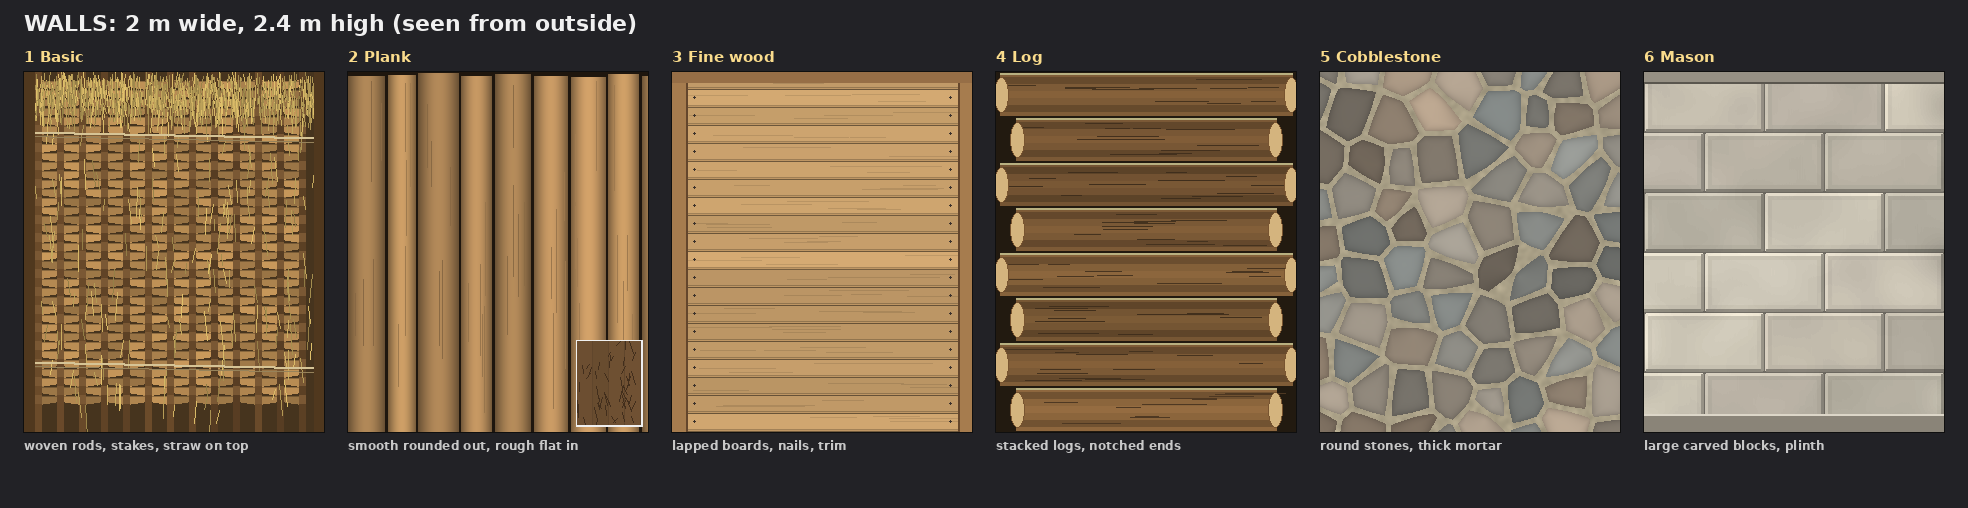
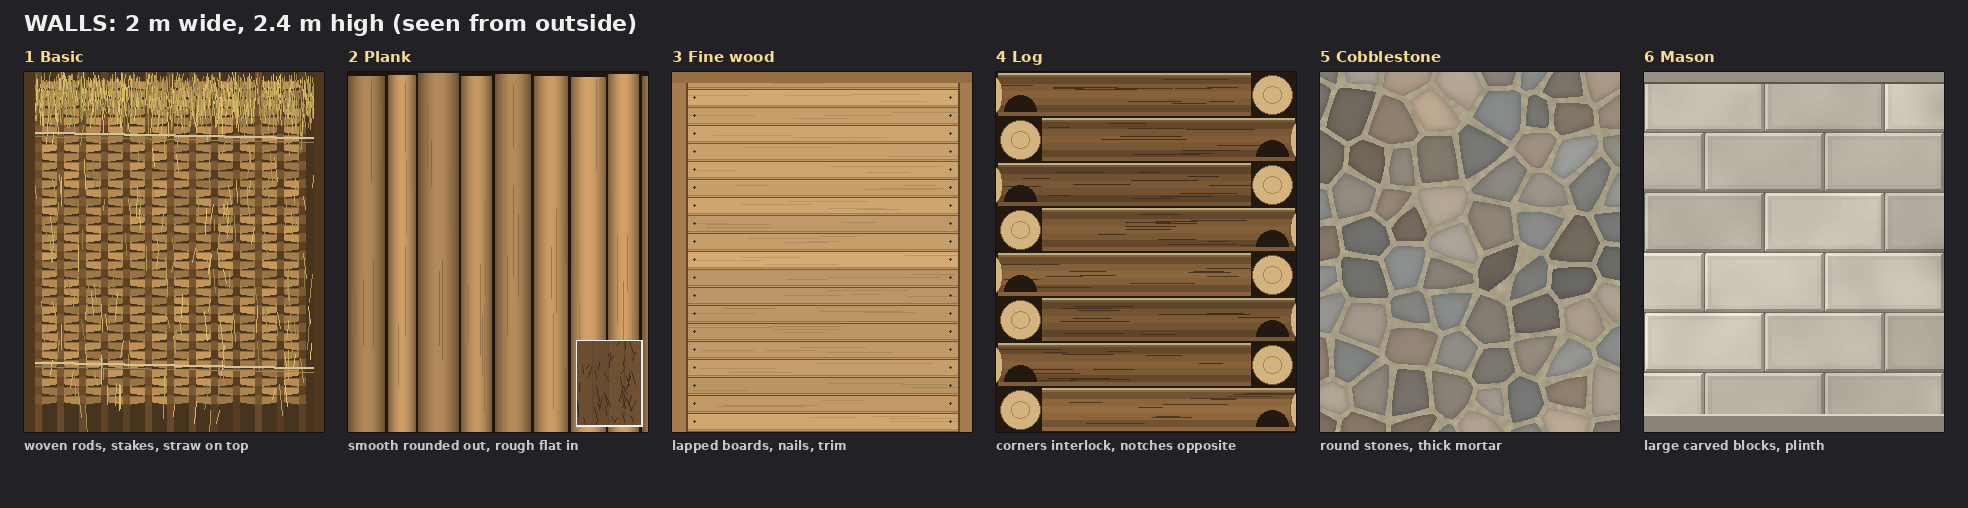
Log wall design: interlocking notched corners, corner plan picture
Claude-Session: https://claude.ai/code/session_01CZx7jASx6pGZ8KWpdsaQti

diff --git a/tools/design_tiers.py b/tools/design_tiers.py
@@ -151,35 +151,74 @@ def wall_fine(rng):
     return img
 
 
+def log_row(d, rng, x0, x1, y, dia, bark):
+    d.rectangle([x0, y + 2, x1, y + dia - 2], fill=bark)
+
+    for k in range(1, 6):                    # cylinder shading
+        f = 0.55 + 0.5 * np.sin(np.pi * k / 6.0)
+        yy = y + 2 + k * (dia - 4) // 6
+        d.line([(x0, yy), (x1, yy)], fill=tint(bark, f), width=(dia - 4) // 6 + 1)
+
+    for _ in range(12):                      # bark ridges
+        rx = int(rng.integers(x0, max(x0 + 1, x1 - 40)))
+        ry = y + int(rng.integers(6, dia - 6))
+        d.line([(rx, ry), (rx + int(rng.integers(20, 70)), ry)], fill=tint(bark, 0.55), width=1)
+
+
 def wall_log(rng):
+    """Saddle-notched corners. Rows alternate: where this wall's log runs through (sticking out, with a saddle notch cut underneath) the other wall's
+    log end shows as a circle on the opposite course. The two ends of the wall are opposite: left runs through on even rows, right on odd rows."""
     w, h = WALL
     img = canvas((w, h), (34, 26, 16))
     d = ImageDraw.Draw(img)
     dia = 45
-    n = h // dia
+    end = (212, 180, 126)
 
-    for i in range(n + 1):
+    for i in range(h // dia + 1):
         y = i * dia
-        x0 = 4 if i % 2 == 0 else 20            # notched corners: every other log sticks out further
-        x1 = w - x0
         bark = tint((132, 96, 58), rng.uniform(0.85, 1.1))
-        d.rectangle([x0, y + 2, x1, y + dia - 2], fill=bark)
+        left_through = i % 2 == 0
+        right_through = not left_through
+        x0 = 2 if left_through else 46
+        x1 = w - 2 if right_through else w - 46
+        log_row(d, rng, x0, x1, y, dia, bark)
+        d.line([(x0, y + 1), (x1, y + 1)], fill=(184, 176, 128), width=2)       # chinking between the logs
 
-        for k in range(1, 6):                # cylinder shading
-            f = 0.55 + 0.5 * np.sin(np.pi * k / 6.0)
-            yy = y + 2 + k * (dia - 4) // 6
-            d.line([(x0, yy), (x1, yy)], fill=tint(bark, f), width=(dia - 4) // 6 + 1)
+        for side, through in ((0, left_through), (1, right_through)):
+            cx = 24 if side == 0 else w - 24
+            ex = 2 if side == 0 else w - 2
 
-        for _ in range(12):                  # bark ridges
-            rx = int(rng.integers(x0, x1 - 40))
-            ry = y + int(rng.integers(6, dia - 6))
-            d.line([(rx, ry), (rx + int(rng.integers(20, 70)), ry)], fill=tint(bark, 0.55), width=1)
-
-        d.line([(x0, y + 1), (x1, y + 1)], fill=(184, 176, 128), width=2)               # chinking: moss and clay between the logs
-        d.ellipse([x0 - 6, y + 5, x0 + 8, y + dia - 5], fill=(212, 180, 126), outline=(120, 84, 48))   # cut ends at the corners
-        d.ellipse([x1 - 8, y + 5, x1 + 6, y + dia - 5], fill=(212, 180, 126), outline=(120, 84, 48))
+            if through:
+                d.ellipse([ex - 10 if side == 0 else ex - 4, y + 5, ex + 4 if side == 0 else ex + 10, y + dia - 5], fill=end, outline=(120, 84, 48))
+                d.pieslice([cx - 16, y + dia - 22, cx + 16, y + dia + 10], 180, 360, fill=(34, 26, 16))      # the saddle notch cut underneath
+            else:
+                d.ellipse([cx - 20, y + 3, cx + 20, y + dia - 3], fill=end, outline=(120, 84, 48))        # the other wall's log end, seen end-on
+                d.ellipse([cx - 9, y + 14, cx + 9, y + dia - 14], outline=(170, 130, 80))                 # growth rings
 
     return img
+
+
+def log_corner(out):
+    """Plan of a log corner, four courses side by side: walls A (horizontal) and B (vertical); the log that runs through the corner alternates."""
+    scale = 90
+    img = canvas((4 * (scale * 2 + 40) + 80, 2 * scale + 140), (34, 34, 38))
+    d = ImageDraw.Draw(img)
+    d.text((24, 10), "LOG CORNER, top view: the log that runs through alternates each course, so ends interlock", fill=(240, 240, 240), font=font(18))
+    t = 30                                   # log diameter in the picture
+
+    for c in range(4):
+        ox = 40 + c * (scale * 2 + 40)
+        oy = 70
+        a_through = c % 2 == 0
+        d.text((ox, oy + scale + t + 40), "course %d: %s runs through" % (c + 1, "A" if a_through else "B"), fill=(250, 220, 140), font=font(13))
+        ax0 = ox - 14 if a_through else ox + t
+        d.rectangle([ax0, oy + scale, ox + scale * 2, oy + scale + t], fill=(132, 96, 58), outline=(60, 40, 22))        # wall A
+        by0 = oy - 14 if not a_through else oy + 0
+        by1 = oy + scale + t if not a_through else oy + scale
+        d.rectangle([ox, by0, ox + t, by1 + (14 if not a_through else 0)], fill=(150, 108, 66), outline=(60, 40, 22))    # wall B
+        d.ellipse([ox - 14, oy + scale + 4, ox - 2, oy + scale + t - 4], fill=(212, 180, 126)) if a_through else d.ellipse([ox + 4, oy - 14, ox + t - 4, oy - 2], fill=(212, 180, 126))
+
+    img.save(out)
 
 
 def voronoi(rng, w, h, cells):
@@ -740,13 +779,14 @@ def main():
     out = sys.argv[1] if len(sys.argv) > 1 else "."
     os.makedirs(out, exist_ok=True)
     sheet("WALLS: 2 m wide, 2.4 m high (seen from outside)", [wall_basic, wall_plank, wall_fine, wall_log, wall_cobble, wall_mason], WALL, os.path.join(out, "tiers_walls.png"),
-          ["woven rods, stakes, straw on top", "smooth rounded out, rough flat in", "lapped boards, nails, trim", "stacked logs, notched ends", "round stones, thick mortar", "large carved blocks, plinth"])
+          ["woven rods, stakes, straw on top", "smooth rounded out, rough flat in", "lapped boards, nails, trim", "corners interlock, notches opposite", "round stones, thick mortar", "large carved blocks, plinth"])
     sheet("FLOORS: 2 m square (seen from above)", [floor_basic, floor_plank, floor_fine, floor_log, floor_flag, floor_block], FLOOR, os.path.join(out, "tiers_floors.png"),
           ["beaten earth, straw, woven mat", "rough planks, gaps, pegs", "planed boards, nail pairs", "split logs, flat side up", "flagstone, narrow joints", "cut stone blocks, tight joints"])
     sheet("ROOFS: 2.4 m square (seen from above, eave at the bottom)", [roof_thatch, roof_plank, roof_fine, roof_log, roof_slab, roof_stone], ROOF, os.path.join(out, "tiers_roofs.png"),
           ["thatch, bound courses, thick eave", "riven plank shingles, ragged", "sawn shingles, nailed", "bark sheets over log rafters", "stone slabs on beams", "dressed slabs, carved ridge"])
     plan(os.path.join(out, "tiers_plan.png"))
     doors_sheet(os.path.join(out, "tiers_doors.png"))
+    log_corner(os.path.join(out, "tiers_log_corner.png"))
     parts = [Image.open(os.path.join(out, n)) for n in ("tiers_walls.png", "tiers_floors.png", "tiers_roofs.png")]
     allimg = canvas((max(p.width for p in parts), sum(p.height for p in parts)), (34, 34, 38))
     y = 0

diff --git a/art/BUILDING_TIERS_LOOKS.md b/art/BUILDING_TIERS_LOOKS.md
@@ -15,7 +15,7 @@ Kathleen_ArtisticDirector, 2026-10-22. Pictures: art/tiers/tiers_walls.png, tier
 | 1 Basic | vertical stakes every 15 cm, light rods woven over and under, twine lashing, straw along the top | flat panel 0.1 m |
 | 2 Plank | half-round planks, smooth and rounded on the OUTSIDE (Dave 22:20), flat rough face INSIDE, dark gaps | two layers: rounded smooth outside, flat rough inside, 0.1 m |
 | 3 Fine wood | lapped boards 12 cm, nail heads, corner trim, top plate | panel 0.15 m with trim posts |
-| 4 Log | 8 round logs 30 cm, bark on, notched ends stick out 12 cm alternately, chinking | real cylinders (8 per wall), 0.4 m |
+| 4 Log | 8 round logs 30 cm, bark on, saddle-notched corners that interlock (the log that runs through the corner alternates each course, opposite on the two ends of a wall; picture tiers_log_corner.png), chinking | real cylinders (8 per wall), 0.4 m |
 | 5 Cobblestone | rounded stones 20 to 40 cm, thick pale mortar, mixed grey, brown, blue-grey | panel 0.5 m, rounded mortar relief by texture |
 | 6 Mason | blocks 80 x 40 cm staggered, dressed centre and chisel margin, small stains, projecting plinth | panel 0.6 m with plinth and top course |
 
